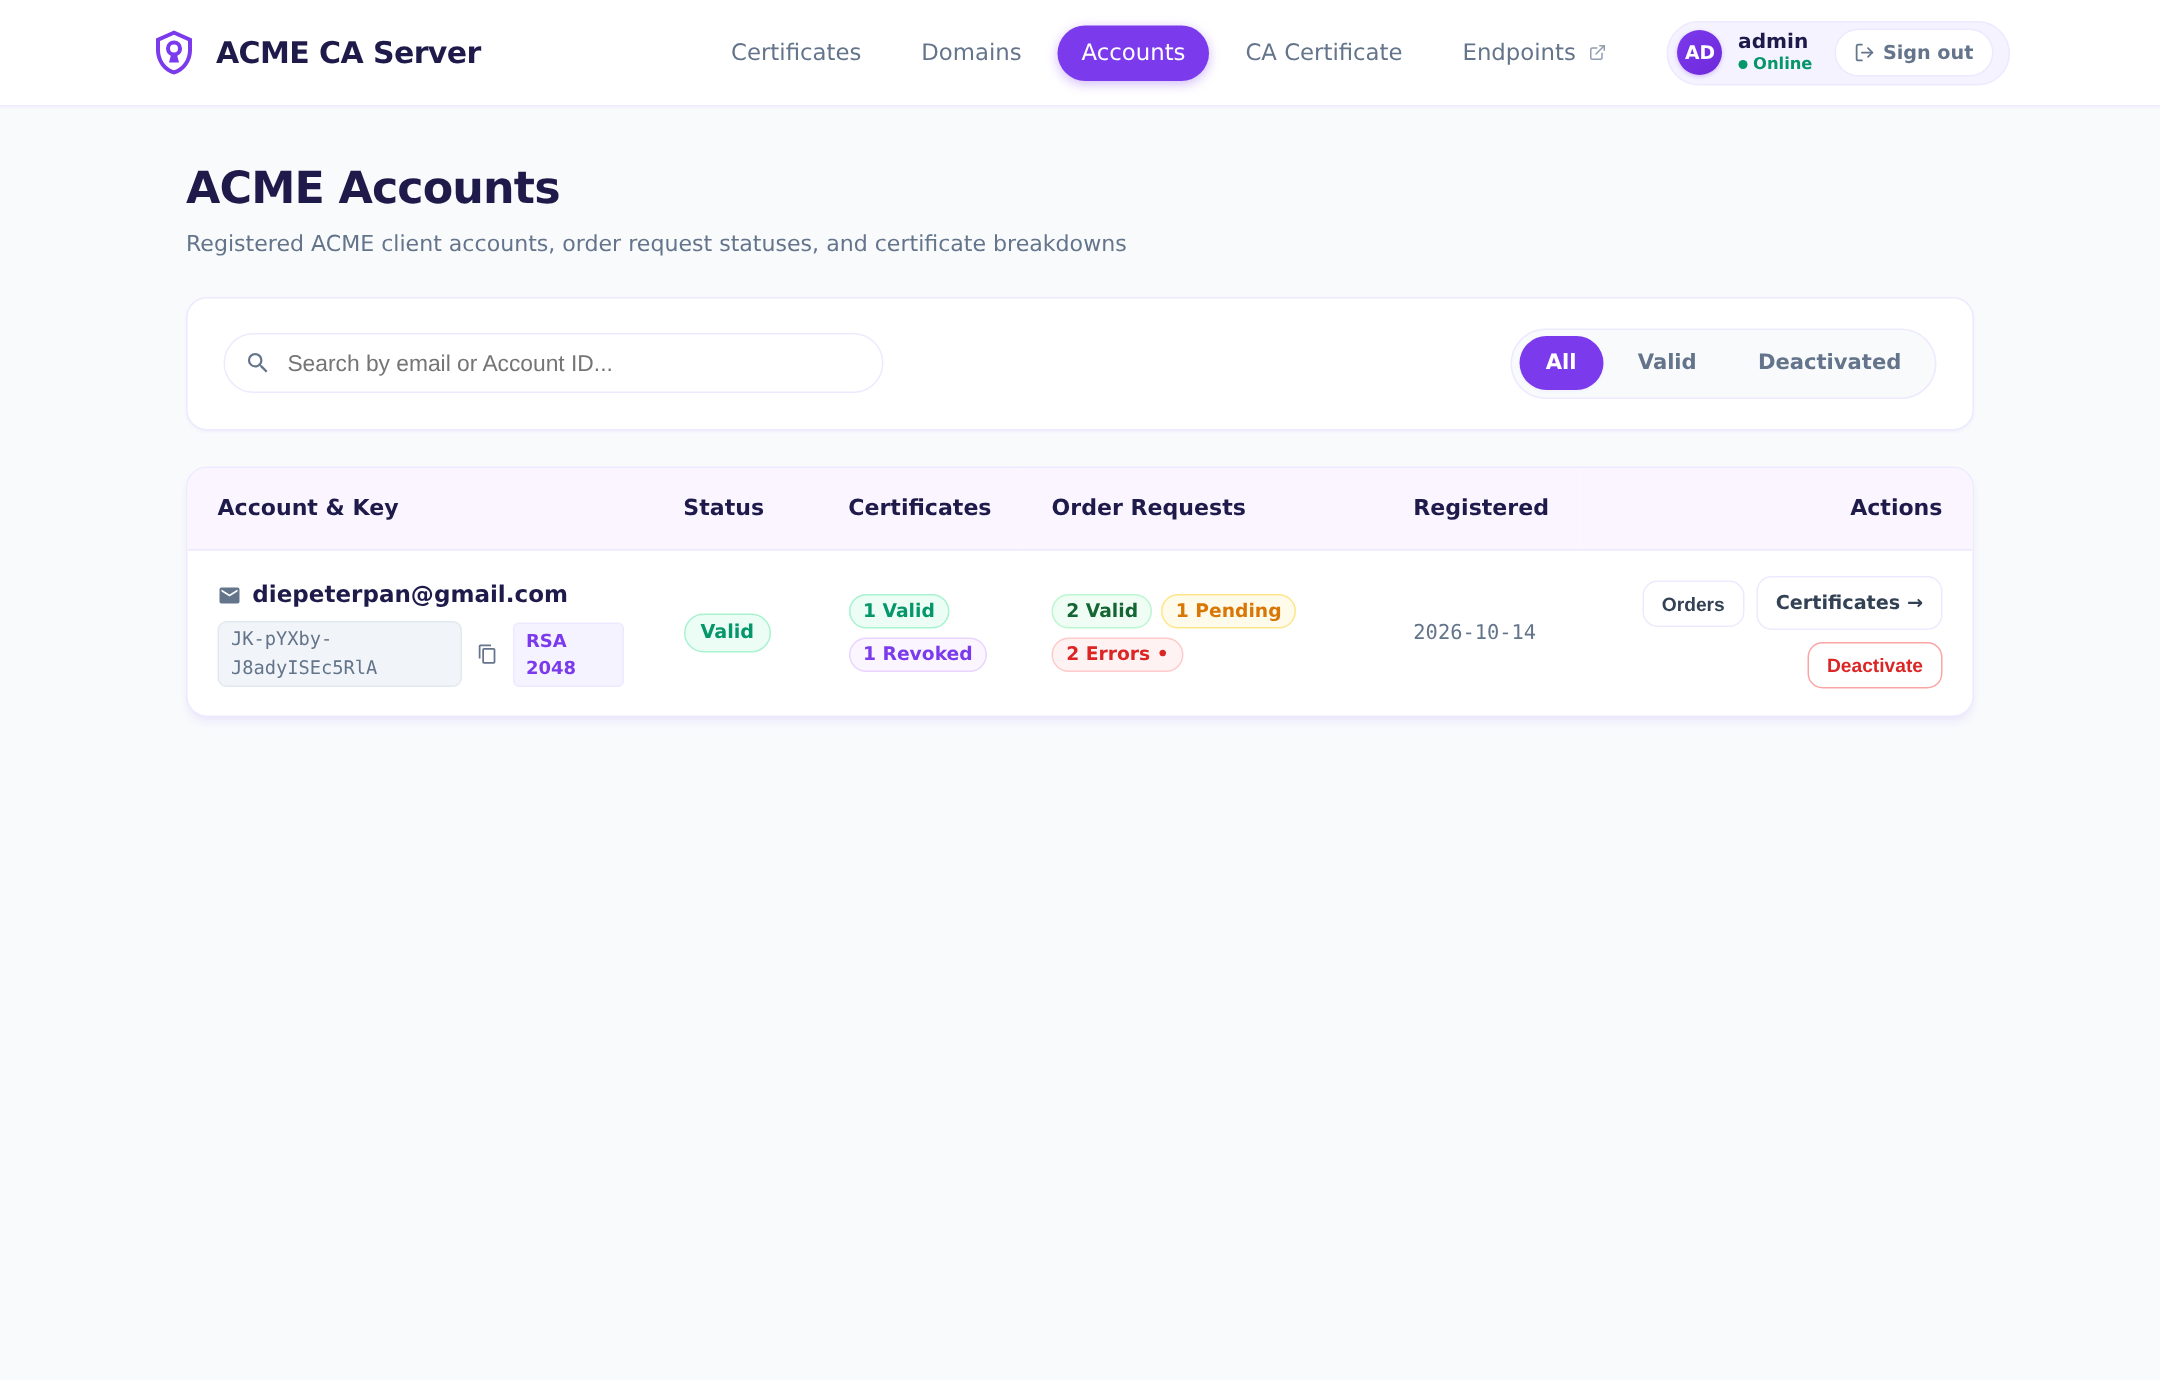
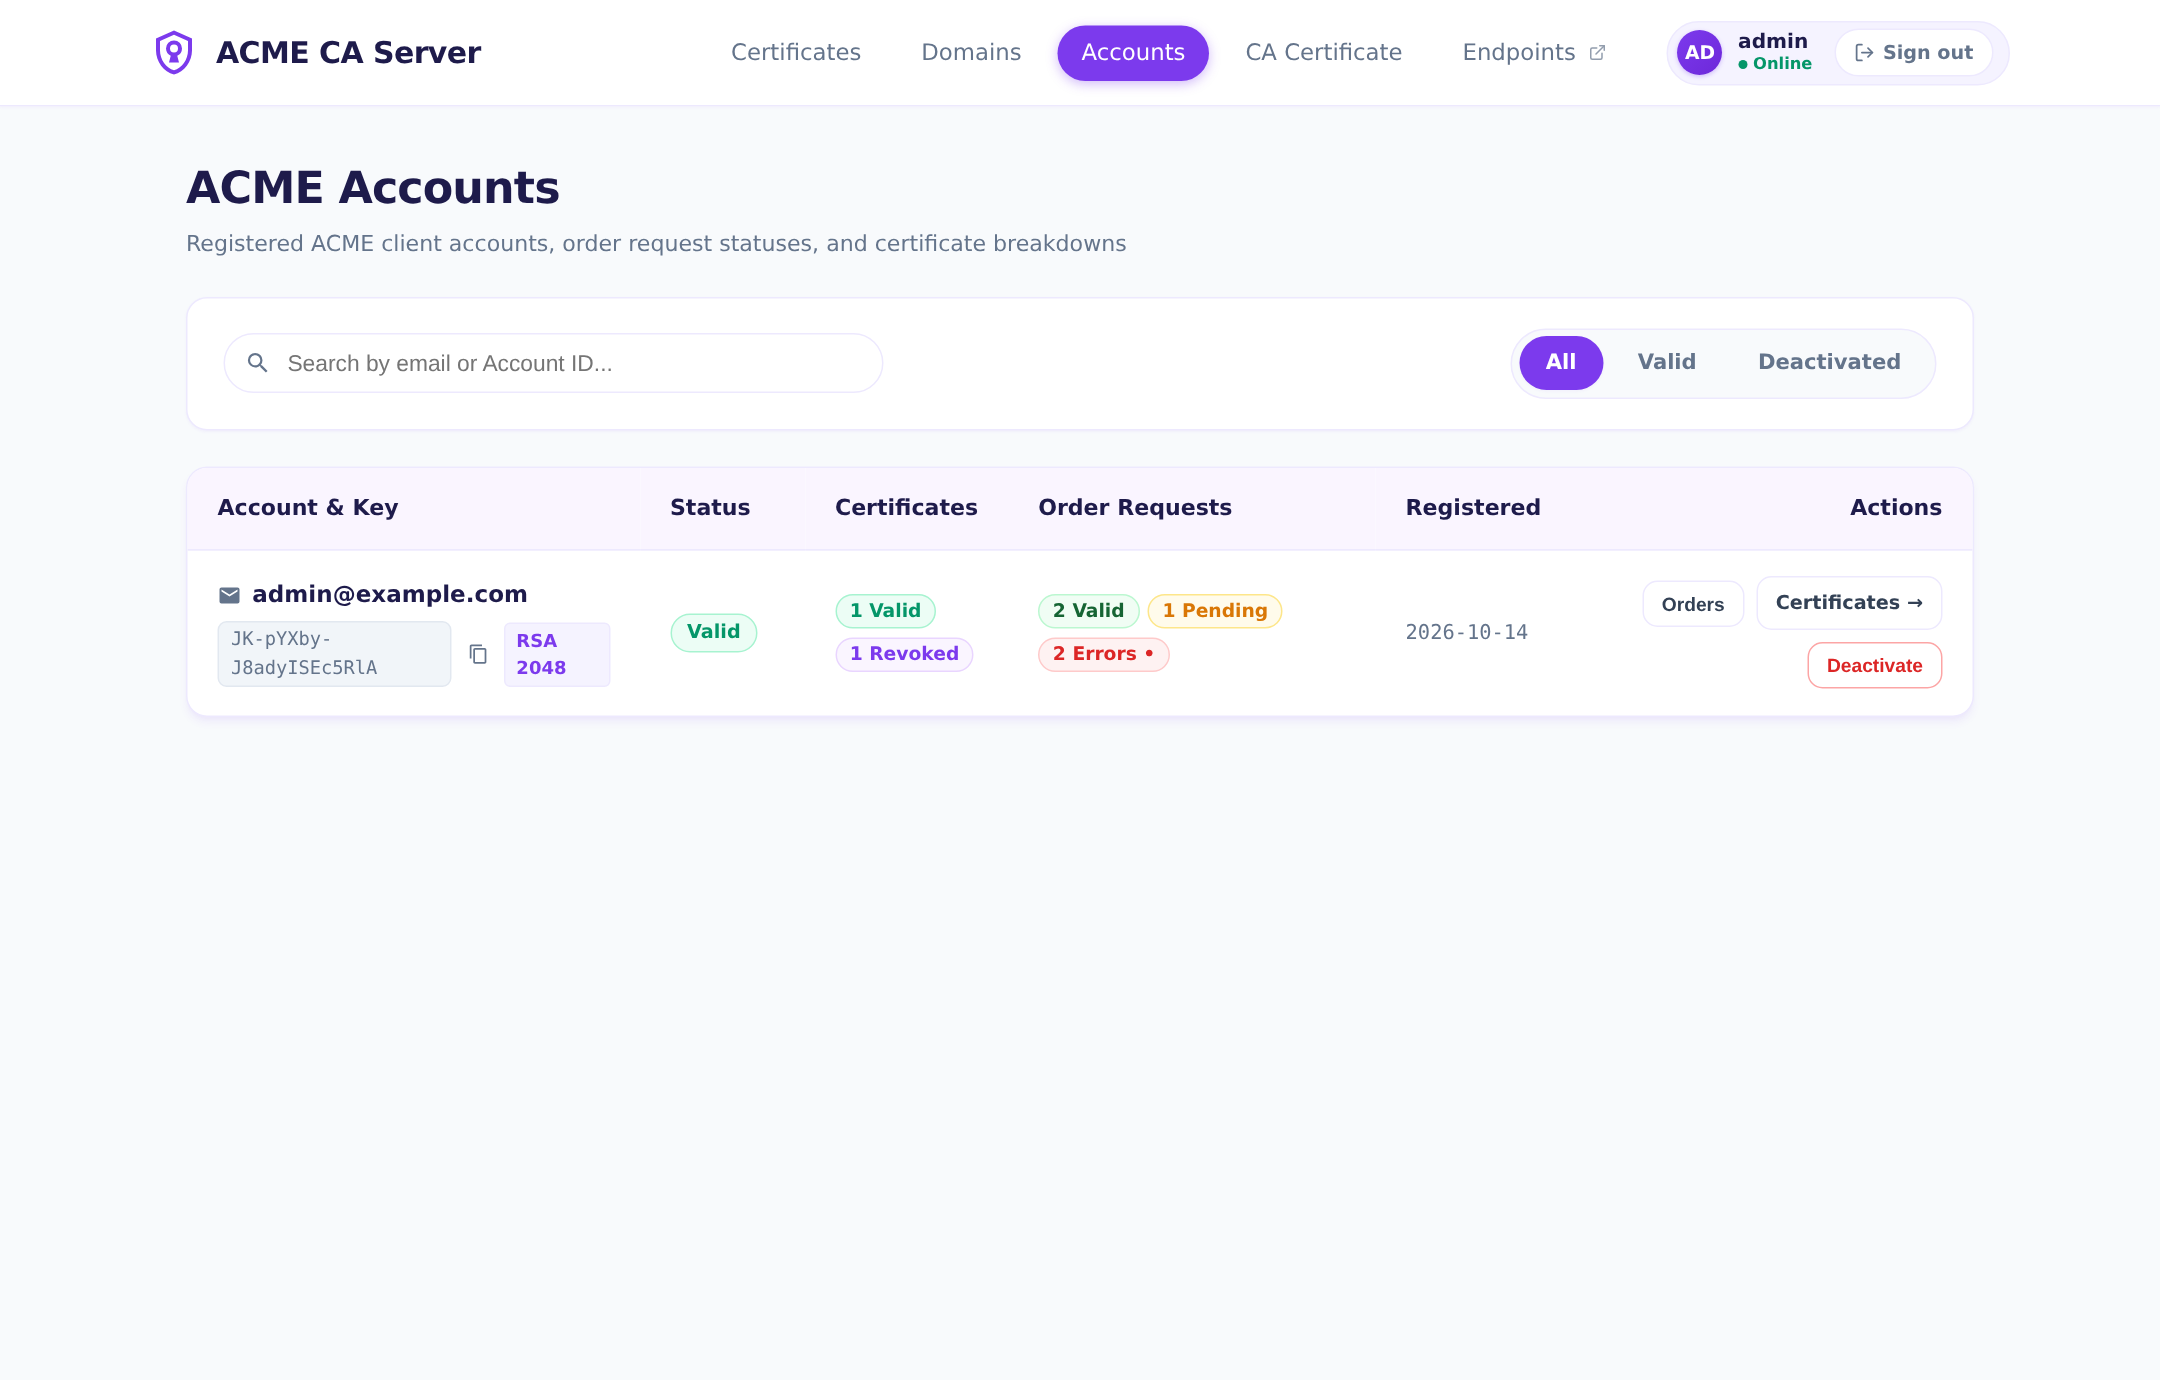
feat: add automatic privacy obfuscation to UI screen capture script

diff --git a/scripts/capture_ui_screens.py b/scripts/capture_ui_screens.py
@@ -79,7 +79,83 @@ class MockRequest:
         self.state = MockState(username)
 
 
-async def capture_all_screens(base_url: str, output_dir: Path, admin_user: str = 'admin'):
+async def obfuscate_page(page):
+    """Obfuscate any real domain names, email addresses, and DN fields in the DOM."""
+    js_code = r"""() => {
+        const emailRegex = /[a-zA-Z0-9_.+-]+@[a-zA-Z0-9-]+\.[a-zA-Z0-9-.]+/g;
+        
+        function sanitizeText(str) {
+            if (!str) return str;
+            let res = str;
+            
+            // 1. Obfuscate domain names
+            res = res.replace(/andregaming\.galleon\.co\.za/gi, 'app.example.com');
+            res = res.replace(/[a-z0-9_.-]+\.galleon\.co\.za/gi, 'service.example.com');
+            res = res.replace(/galleon\.co\.za/gi, 'example.com');
+            res = res.replace(/galleon\s*beach/gi, 'Internal ACME Root CA');
+            res = res.replace(/galleon/gi, 'Example Security Corp');
+
+            // 2. Obfuscate Location & Subject Distinguished Name (DN) fields
+            res = res.replace(/Cape Town/gi, 'San Francisco');
+            res = res.replace(/Western Cape/gi, 'California');
+            res = res.replace(/\bZA\b/g, 'US');
+
+            // If Subject DN string contains sanitized terms, format cleanly
+            if (res.includes('San Francisco') && res.includes('California') && (res.includes('CN=') || res.includes('L='))) {
+                res = 'CN=Internal ACME Root CA, O=Example Security Corp, OU=Security Operations, L=San Francisco, ST=California, C=US';
+            }
+
+            // 3. Obfuscate any email addresses
+            res = res.replace(emailRegex, (match) => {
+                if (match.includes('example.com') || match.includes('example.org')) return match;
+                return 'admin@example.com';
+            });
+            
+            return res;
+        }
+
+        // Walk DOM nodes
+        function walk(node) {
+            if (node.nodeType === Node.TEXT_NODE) {
+                const updated = sanitizeText(node.nodeValue);
+                if (updated !== node.nodeValue) {
+                    node.nodeValue = updated;
+                }
+            } else if (node.nodeType === Node.ELEMENT_NODE) {
+                if (node.tagName === 'INPUT' || node.tagName === 'TEXTAREA') {
+                    if (node.value) node.value = sanitizeText(node.value);
+                }
+                if (node.hasAttribute('title')) {
+                    node.setAttribute('title', sanitizeText(node.getAttribute('title')));
+                }
+                for (let child of node.childNodes) {
+                    walk(child);
+                }
+            }
+        }
+        
+        walk(document.body);
+
+        // Sanitize PEM viewer block if present on CA details screen
+        const pemElem = document.getElementById('pemCode');
+        if (pemElem) {
+            pemElem.textContent = 
+`-----BEGIN CERTIFICATE-----
[3 lines of base64/hex data omitted]
+... [SAMPLE BASE64 ENCODED ROOT CA CERTIFICATE] ...
[1 lines of base64/hex data omitted]
+-----END CERTIFICATE-----`;
+        }
+    }"""
+    try:
+        await page.evaluate(js_code)
+    except Exception as e:
+        print(f"    Notice: DOM obfuscation error: {e}")
+
+
+async def capture_all_screens(base_url: str, output_dir: Path, admin_user: str = 'admin', obfuscate: bool = True):
     output_dir.mkdir(parents=True, exist_ok=True)
     token, _ = create_session_cookie(admin_user, remember_me=True)
 
@@ -109,6 +185,8 @@ async def capture_all_screens(base_url: str, output_dir: Path, admin_user: str =
         print("--> Capturing 01_login_screen.png...")
         try:
             await page_guest.goto(f"{base_url}/login", wait_until='networkidle')
+            if obfuscate:
+                await obfuscate_page(page_guest)
             await page_guest.screenshot(path=str(output_dir / "01_login_screen.png"), full_page=False)
         except Exception as e:
             print(f"    Warning: Could not fetch {base_url}/login: {e}")
@@ -124,6 +202,8 @@ async def capture_all_screens(base_url: str, output_dir: Path, admin_user: str =
                 status_msg=''
             )
             await page_guest.set_content(setup_html, wait_until='networkidle')
+            if obfuscate:
+                await obfuscate_page(page_guest)
             await page_guest.screenshot(path=str(output_dir / "02_admin_setup_onboarding.png"), full_page=False)
         except Exception as e:
             print(f"    Warning: Could not render setup.html: {e}")
@@ -142,7 +222,7 @@ async def capture_all_screens(base_url: str, output_dir: Path, admin_user: str =
                 'status_msg': '',
                 'form_data': {
                     'common_name': 'ACME Root CA',
-                    'organization': 'Acme Security Corp',
+                    'organization': 'Example Security Corp',
                     'organizational_unit': 'Security Operations',
                     'country': 'US',
                     'state': 'California',
@@ -155,6 +235,8 @@ async def capture_all_screens(base_url: str, output_dir: Path, admin_user: str =
             })
             ca_setup_html = await ca_setup_template.render_async(**ca_params)
             await page_guest.set_content(ca_setup_html, wait_until='networkidle')
+            if obfuscate:
+                await obfuscate_page(page_guest)
             await page_guest.screenshot(path=str(output_dir / "03_ca_certificate_onboarding.png"), full_page=False)
         except Exception as e:
             print(f"    Warning: Could not render ca-setup.html: {e}")
@@ -183,6 +265,8 @@ async def capture_all_screens(base_url: str, output_dir: Path, admin_user: str =
         print("--> Capturing 04_home_dashboard.png...")
         try:
             await page_auth.goto(f"{base_url}/", wait_until='networkidle')
+            if obfuscate:
+                await obfuscate_page(page_auth)
             await page_auth.screenshot(path=str(output_dir / "04_home_dashboard.png"), full_page=False)
         except Exception as e:
             print(f"    Warning: Could not capture dashboard: {e}")
@@ -191,6 +275,8 @@ async def capture_all_screens(base_url: str, output_dir: Path, admin_user: str =
         print("--> Capturing 05_ca_certificate.png...")
         try:
             await page_auth.goto(f"{base_url}/ca", wait_until='networkidle')
+            if obfuscate:
+                await obfuscate_page(page_auth)
             await page_auth.screenshot(path=str(output_dir / "05_ca_certificate.png"), full_page=False)
         except Exception as e:
             print(f"    Warning: Could not capture CA details: {e}")
@@ -199,6 +285,8 @@ async def capture_all_screens(base_url: str, output_dir: Path, admin_user: str =
         print("--> Capturing 06_certificates_log.png...")
         try:
             await page_auth.goto(f"{base_url}/certificates", wait_until='networkidle')
+            if obfuscate:
+                await obfuscate_page(page_auth)
             await page_auth.screenshot(path=str(output_dir / "06_certificates_log.png"), full_page=False)
         except Exception as e:
             print(f"    Warning: Could not capture certificates: {e}")
@@ -207,6 +295,8 @@ async def capture_all_screens(base_url: str, output_dir: Path, admin_user: str =
         print("--> Capturing 07_domains_log.png...")
         try:
             await page_auth.goto(f"{base_url}/domains", wait_until='networkidle')
+            if obfuscate:
+                await obfuscate_page(page_auth)
             await page_auth.screenshot(path=str(output_dir / "07_domains_log.png"), full_page=False)
         except Exception as e:
             print(f"    Warning: Could not capture domains: {e}")
@@ -215,6 +305,8 @@ async def capture_all_screens(base_url: str, output_dir: Path, admin_user: str =
         print("--> Capturing 08_accounts_log.png...")
         try:
             await page_auth.goto(f"{base_url}/accounts", wait_until='networkidle')
+            if obfuscate:
+                await obfuscate_page(page_auth)
             await page_auth.screenshot(path=str(output_dir / "08_accounts_log.png"), full_page=False)
         except Exception as e:
             print(f"    Warning: Could not capture accounts: {e}")
@@ -227,6 +319,8 @@ async def capture_all_screens(base_url: str, output_dir: Path, admin_user: str =
                 await orders_btn.click()
                 await page_auth.wait_for_selector("#orderModal.open", timeout=3000)
                 await asyncio.sleep(0.5)  # Allow smooth fade-in
+                if obfuscate:
+                    await obfuscate_page(page_auth)
                 await page_auth.screenshot(path=str(output_dir / "09_account_orders_modal.png"), full_page=False)
                 print("    Modal captured successfully!")
             else:
@@ -257,9 +351,14 @@ def main():
         default='admin',
         help="Admin username for session authentication (default: %(default)s)"
     )
+    parser.add_argument(
+        '--no-obfuscate',
+        action='store_true',
+        help="Disable automatic obfuscation of domain names, emails, and DN fields"
+    )
     args = parser.parse_args()
 
-    asyncio.run(capture_all_screens(args.base_url, args.output_dir, args.admin_user))
+    asyncio.run(capture_all_screens(args.base_url, args.output_dir, args.admin_user, obfuscate=not args.no_obfuscate))
 
 
 if __name__ == '__main__':

diff --git a/README.md b/README.md
@@ -310,6 +310,7 @@ A Playwright-driven automation utility that captures high-resolution screenshots
 
 **Key capabilities:**
 * Automatically generates signed session cookies to capture both guest and authenticated administrative screens.
+* **Automatic Privacy Obfuscation**: Sanitizes real personal email addresses (`admin@example.com`), domain names (`app.example.com`), and Subject DN location fields (e.g. Cape Town, Western Cape, custom organization names) with generic demonstration data (disable with `--no-obfuscate`).
 * Interacts with UI components (e.g. opens the Order Requests & Error modal with descending expiration sorting).
 * Automatically updates images in `Documentation/screenshots/` to keep [Documentation/UI_TOUR_SHOWCASE.md](./Documentation/UI_TOUR_SHOWCASE.md) fresh.
 
